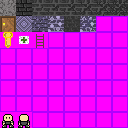
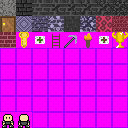
Implement fire level and more items

diff --git a/map.c b/map.c
@@ -6,6 +6,7 @@
 #include <stdio.h>
 #include <errno.h>
 #include <string.h>
+#include <assert.h>
 #include <SDL2/SDL.h>
 #include <SDL2/SDL_image.h>
 
@@ -21,7 +22,9 @@ int map_colors[TILE_COUNT] = {
     [TILE_ICE_DARK_STONE] = 0xff59507d,
     [TILE_ICE_LIGHT_STONE] = 0xff8983a0,
     [TILE_MAGIC_STONE] = 0xff303030,
-    [TILE_ICE_LIGHT_BREAKSTONE] = 0xff3e385b
+    [TILE_ICE_LIGHT_BREAKSTONE] = 0xff3e385b,
+    [TILE_FIRE_DARK_STONE] = 0xff742134,
+    [TILE_FIRE_LIGHT_BREAKSTONE] = 0xffa86575 
 };
 
 void map_switch(Player* p, MapType type)
@@ -37,9 +40,12 @@ void map_switch(Player* p, MapType type)
     case MAP_ICE:
 	map_load_from_png("./res/maps/ice.png");
 	break;
+    case MAP_FIRE:
+	map_load_from_png("./res/maps/fire.png");
+	break;
     }
     sound_play(SOUND_LEVEL_ENTRANCE);
-    SDL_Delay(500);
+    SDL_Delay(250);
 }
 
 void map_load_from_file(char* file_path)
@@ -84,14 +90,13 @@ void map_load_from_png(char* file_path)
 	    uint8_t b = px[2];
 	    int color = (0xFF << 24) | (r << 16) | (g << 8) | b;
 
-	    printf("(%d,%d): 0x%02x: id: ", x, y, color);
-
 	    for (int i = 0; i < TILE_COUNT; i++) {
 		if (map_colors[i] == color) {
 		    map[x][y] = i;
 		    break;
 		} else {
-		    // Important to avoid remaining tiles from other levels being rendered
+		    // Important to avoid remaining tiles 
+		    // from other levels being rendered
 		    map[x][y] = 0;
 		}
 	    }
@@ -109,6 +114,20 @@ void map_break_block(int map_x, int map_y, Tile last_tile)
 	map[map_x][map_y] = TILE_EMPTY;
 	sound_play(SOUND_WALL_DESTROY);
     }
+}
+
+void map_explode_block(int map_x, int map_y)
+{
+    assert(map[map_x][map_y] == TILE_FIRE_LIGHT_BREAKSTONE && 
+	   "map_explode_block(): Expected TILE_FIRE_LIGHT_BREAKSTONE!\n");
+
+    map[map_x][map_y] = TILE_EMPTY;
+    sound_play(SOUND_EXPLOSION);
+
+    map[map_x][map_y+1] = TILE_EMPTY;
+    map[map_x][map_y-1] = TILE_EMPTY;
+    map[map_x+1][map_y] = TILE_EMPTY;
+    map[map_x-1][map_y] = TILE_EMPTY;
 }
 
 void map_dump()

diff --git a/player.c b/player.c
@@ -7,6 +7,7 @@
 #include "./bitmap.h"
 #include <SDL2/SDL.h>
 
+#define TESTING_MODE
 
 Player player_init()
 {
@@ -14,6 +15,11 @@ Player player_init()
     p.pos = (Vec2) {22,12};
     p.dir = (Vec2) {-1, 0};
     p.plane = (Vec2) {0, 0.66};
+#ifdef TESTING_MODE
+    p.keys = 200;
+    p.has_axe = 1;
+    p.has_torch = 1;
+#endif // TESTING_MODE
     p.cooldown = PLAYER_COOLDOWN_START;
     return p;
 }
@@ -85,9 +91,8 @@ void player_interact_block(Player* p, int map_x, int map_y)
 	    sound_play(SOUND_WRONG);
 	}
 	break;
-    case TILE_MAGIC_STONE:
-	map[map_x][map_y] = 0;
-	sound_play(SOUND_DOOR_OPEN);
+    case TILE_FIRE_LIGHT_BREAKSTONE:
+	map_explode_block(map_x, map_y);
 	break;
     }
 }
@@ -127,15 +132,32 @@ void player_pickup_item(Player* p, int item_index)
 	items[item_index] = (Item) {.type = ITEM_EMPTY};
 	break;
     case ITEM_LADDER:
-	if (current_map_type == MAP_CAVE) {
+	switch (current_map_type) {
+	case MAP_CAVE:
 	    map_switch(p, MAP_ICE);
-	} else {
+	    break;
+	case MAP_ICE:
+	    map_switch(p, MAP_FIRE);
+	    break;
+	case MAP_FIRE:
 	    map_switch(p, MAP_CAVE);
+	    break;
 	}
 	break;
     case ITEM_AXE:
 	p->has_axe = 1;
 	items[item_index] = (Item) {.type = ITEM_EMPTY};
+	break;
+    case ITEM_TORCH:
+	p->has_torch = 1;
+	items[item_index] = (Item) {.type = ITEM_EMPTY};
+	break;
+    case ITEM_FAKEKIT:
+	if (game_timer < 30)
+	    break;
+	game_timer -= (int)(game_timer / 4);
+	items[item_index] = (Item) {.type = ITEM_EMPTY};
+	sound_play(SOUND_WRONG);
 	break;
     }
 }

diff --git a/item.c b/item.c
@@ -28,11 +28,27 @@ void item_load_with_scale(ItemType type, Bitmap* bitmap, MapType map, double x, 
 
 void items_init(Bitmap* bitmap)
 {
+    // MAP_CAVE
     item_load(ITEM_KEY, bitmap, MAP_CAVE, 10.0f, 8.0f);
-    item_load(ITEM_TIMEKIT, bitmap, MAP_CAVE, 12.0f, 14.5f);
+    item_load(ITEM_TIMEKIT, bitmap, MAP_CAVE, 12.5f, 14.3f);
     item_load_with_scale(ITEM_LADDER, bitmap, MAP_CAVE, 3.5f, 1.6f, 1, 1, SPRITE_GROUND_VALUE);
     item_load(ITEM_KEY, bitmap, MAP_CAVE, 10.0f, 21.9f);
-    item_load_with_scale(ITEM_LADDER, bitmap, MAP_ICE, 3.5f, 1.6f, 1, 1, SPRITE_GROUND_VALUE);
+
+    // MAP_ICE
+    item_load(ITEM_KEY, bitmap, MAP_ICE, 7.0f, 5.0f);
+    item_load_with_scale(ITEM_LADDER, bitmap, MAP_ICE, 7.5f, 9.7f, 1, 1, SPRITE_GROUND_VALUE);
+    item_load(ITEM_AXE, bitmap, MAP_ICE, 1.8f, 21.5f);
+    item_load(ITEM_TIMEKIT, bitmap, MAP_ICE, 1.4f, 12.4f);
+
+    // MAP_FIRE
+    item_load(ITEM_TORCH, bitmap, MAP_FIRE, 6.5f, 5.9f);
+    item_load(ITEM_KEY, bitmap, MAP_FIRE, 10.2f, 10.5f);
+    item_load(ITEM_KEY, bitmap, MAP_FIRE, 1.5f, 22.3f);
+    item_load(ITEM_KEY, bitmap, MAP_FIRE, 3.5f, 12.8f);
+    item_load(ITEM_KEY, bitmap, MAP_FIRE, 3.5f, 18.3f);
+    item_load(ITEM_KEY, bitmap, MAP_FIRE, 3.5f, 22.2f);
+    item_load(ITEM_TIMEKIT, bitmap, MAP_FIRE, 10.8f, 3.6f);
+    item_load(ITEM_FAKEKIT, bitmap, MAP_FIRE, 14.5f, 11.5f);
 }
 
 void items_update(Player* p)

diff --git a/include/map.h b/include/map.h
@@ -21,24 +21,26 @@ typedef enum {
     TILE_ICE_LIGHT_STONE,
     TILE_MAGIC_STONE,
     TILE_ICE_LIGHT_BREAKSTONE,
+    TILE_FIRE_GROUND,
+    TILE_FIRE_DARK_STONE,
+    TILE_FIRE_LIGHT_BREAKSTONE,
     TILE_COUNT
 } Tile;
 
 typedef enum {
     MAP_CAVE,
-    MAP_ICE
+    MAP_ICE,
+    MAP_FIRE
 } MapType;
 
 extern MapType current_map_type;
 extern Tile map[MAP_WIDTH][MAP_HEIGHT];
-extern Tile cave_map[MAP_WIDTH][MAP_HEIGHT];
-extern Tile ice_map[MAP_WIDTH][MAP_HEIGHT];
-
 
 void map_switch(Player* p, MapType type);
 void map_load_from_file(char* file_path);
 void map_load_from_png(char* file_path);
 void map_break_block(int map_x, int map_y, Tile end_tile);
+void map_explode_block(int map_x, int map_y);
 void map_dump();
 
 #endif // _MAP_H_

diff --git a/screen.c b/screen.c
@@ -60,8 +60,13 @@ void screen_render_floor(Screen* screen, Vec2* dir, Vec2* plane, Vec2* pos)
 
 	    // Floor
 	    int bm_index = 0;
-	    if (current_map_type == MAP_ICE) {
+	    switch (current_map_type) {
+	    case MAP_ICE:
 		bm_index = TILE_ICE_GROUND;
+		break;
+	    case MAP_FIRE:
+		bm_index = TILE_FIRE_GROUND;
+		break;
 	    }
 	    int color = screen->bitmap.pixels[TEX_WIDTH * ty + tx][bm_index];
 	    color = (color >> 1) & 8355711; // More darker

diff --git a/sound.c b/sound.c
@@ -23,6 +23,7 @@ void sound_init()
     sound_load(SOUND_WRONG, "./res/sounds/wrong.wav");
     sound_load(SOUND_DOOR_OPEN, "./res/sounds/open_door.wav");
     sound_load(SOUND_LEVEL_ENTRANCE, "./res/sounds/level_entrance.wav");
+    sound_load(SOUND_EXPLOSION, "./res/sounds/explosion.wav");
 }
 
 void sound_load(Sound sound_id, char* file_path)

diff --git a/utils/colorpicker_script.c b/utils/colorpicker_script.c
@@ -16,7 +16,7 @@ int main(void)
     }
 
     printf("int map_colors[TILE_COUNT] = {\n");
-    for (int x = 0; x < 8; x++) {
+    for (int x = 0; x < 10; x++) {
         uint8_t* px = p + x * surface->format->BytesPerPixel;
         uint8_t r, g, b;
         SDL_GetRGB(*(int*)px, surface->format, &r, &g, &b);

diff --git a/vec2.c b/vec2.c
@@ -1,0 +1,13 @@
+#include "./vec2.h"
+
+double vec2_get_dist(Vec2* v1, Vec2* v2, double radius)
+{
+    double dx = v1->x - v2->x;
+    double dy = v1->y - v2->y;
+    return (dx*dx + dy*dy) < (radius * radius);
+}
+
+Vec2 vec2_cross(Vec2* v1, Vec2* v2)
+{
+    return (Vec2) {v1->x * v2->x, v1->y * v2->y};
+}

diff --git a/game.c b/game.c
@@ -88,6 +88,9 @@ void run_loop(SDL_Window* window, SDL_Renderer* renderer, SDL_Texture* texture)
 	frames++;
 
 	if (SDL_GetTicks() - timer >= 1000) {
+	    if (game_timer <= 0) {
+		player_game_over(&player);
+	    }
 	    game_timer--;
 
 	    char win_title[29];

diff --git a/include/bitmap.h b/include/bitmap.h
@@ -7,7 +7,7 @@
 #define BM_WIDTH 128
 #define BM_HEIGHT 128
 #define TEX_COUNT (BM_WIDTH*BM_HEIGHT) / (TEX_WIDTH*TEX_HEIGHT)
-#define BITMAP_ITEM_OFFSET 15
+#define BITMAP_ITEM_OFFSET 16
 
 static const int INVISIBLE_COLOR = 0xffff00ff;
 

diff --git a/include/item.h b/include/item.h
@@ -13,7 +13,10 @@ typedef enum {
     ITEM_KEY,
     ITEM_TIMEKIT,
     ITEM_LADDER,
-    ITEM_AXE
+    ITEM_AXE,
+    ITEM_TORCH,
+    ITEM_FAKEKIT,
+    ITEM_GOAL
 } ItemType;
 
 typedef struct {

diff --git a/include/vec2.h b/include/vec2.h
@@ -1,5 +1,10 @@
 #pragma once
 
+#include <math.h>
+
 typedef struct {
-    double x, y;
+    double x;
+    double y;
 } Vec2;
+
+double vec2_get_dist(Vec2* v1, Vec2* v2, double radius);
